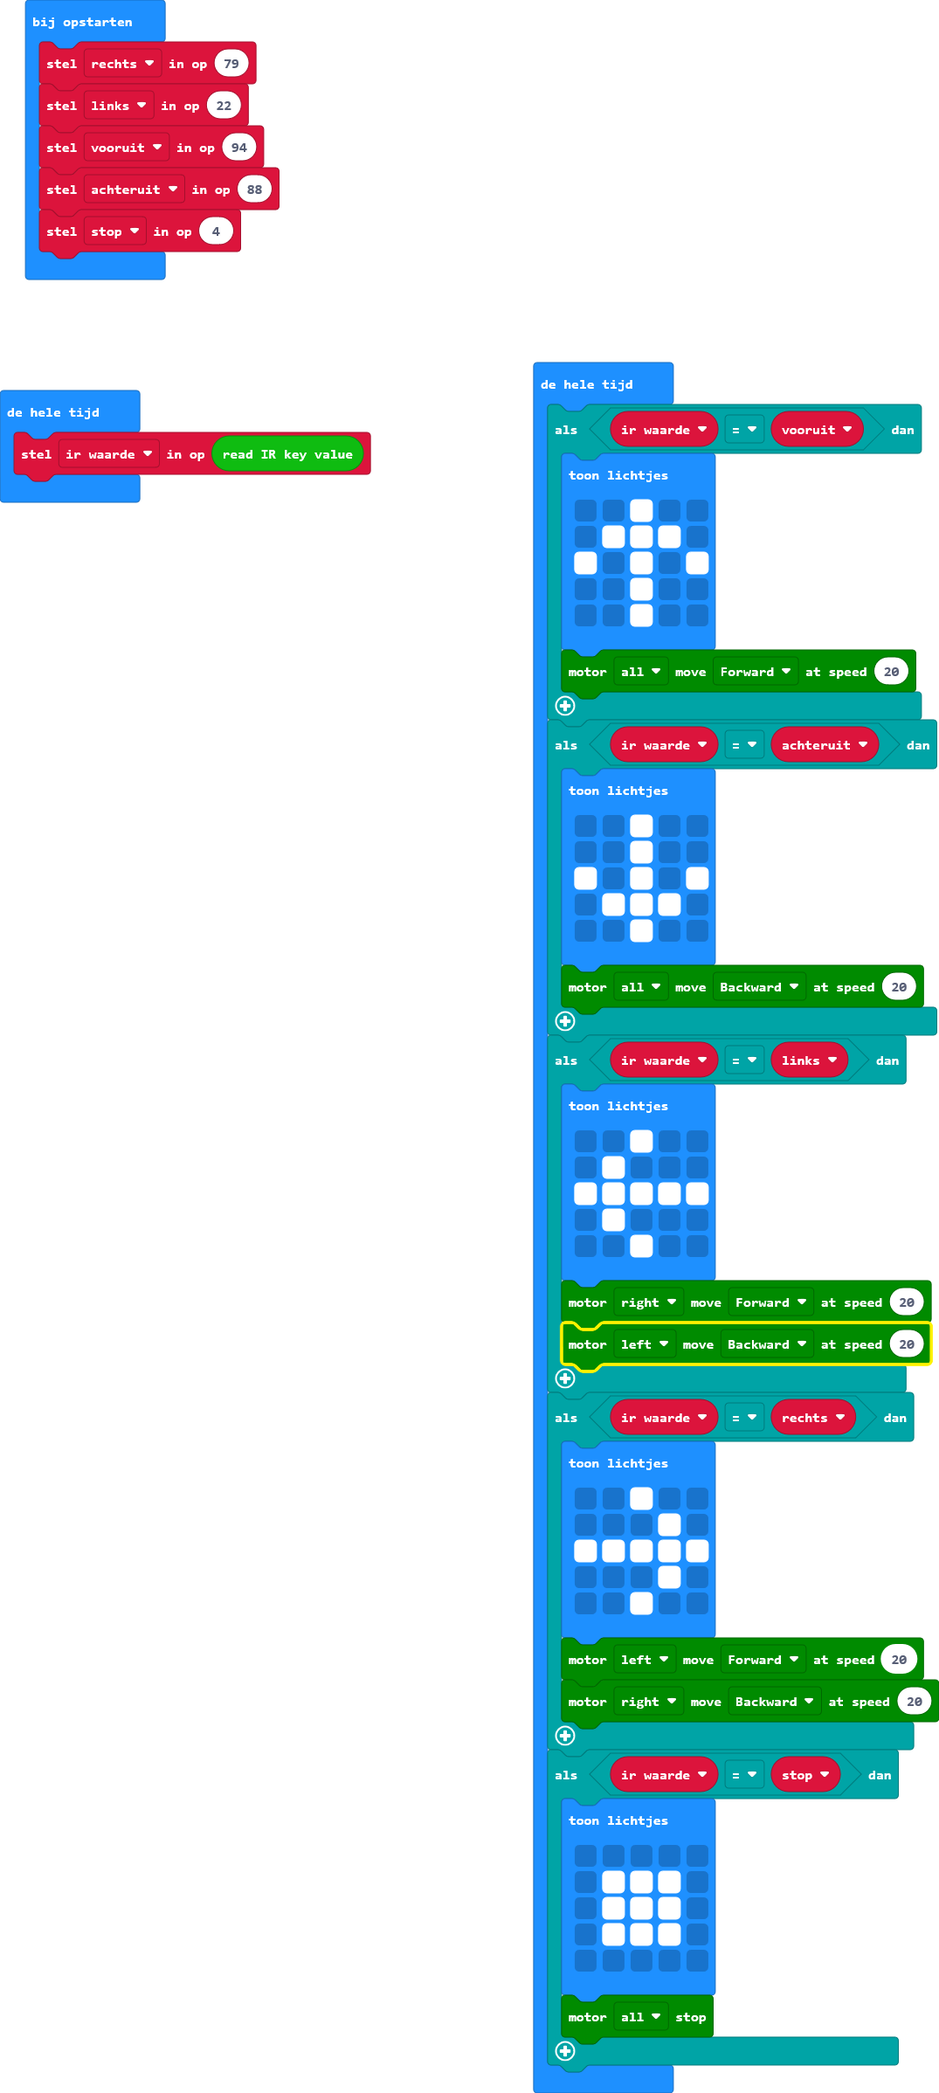
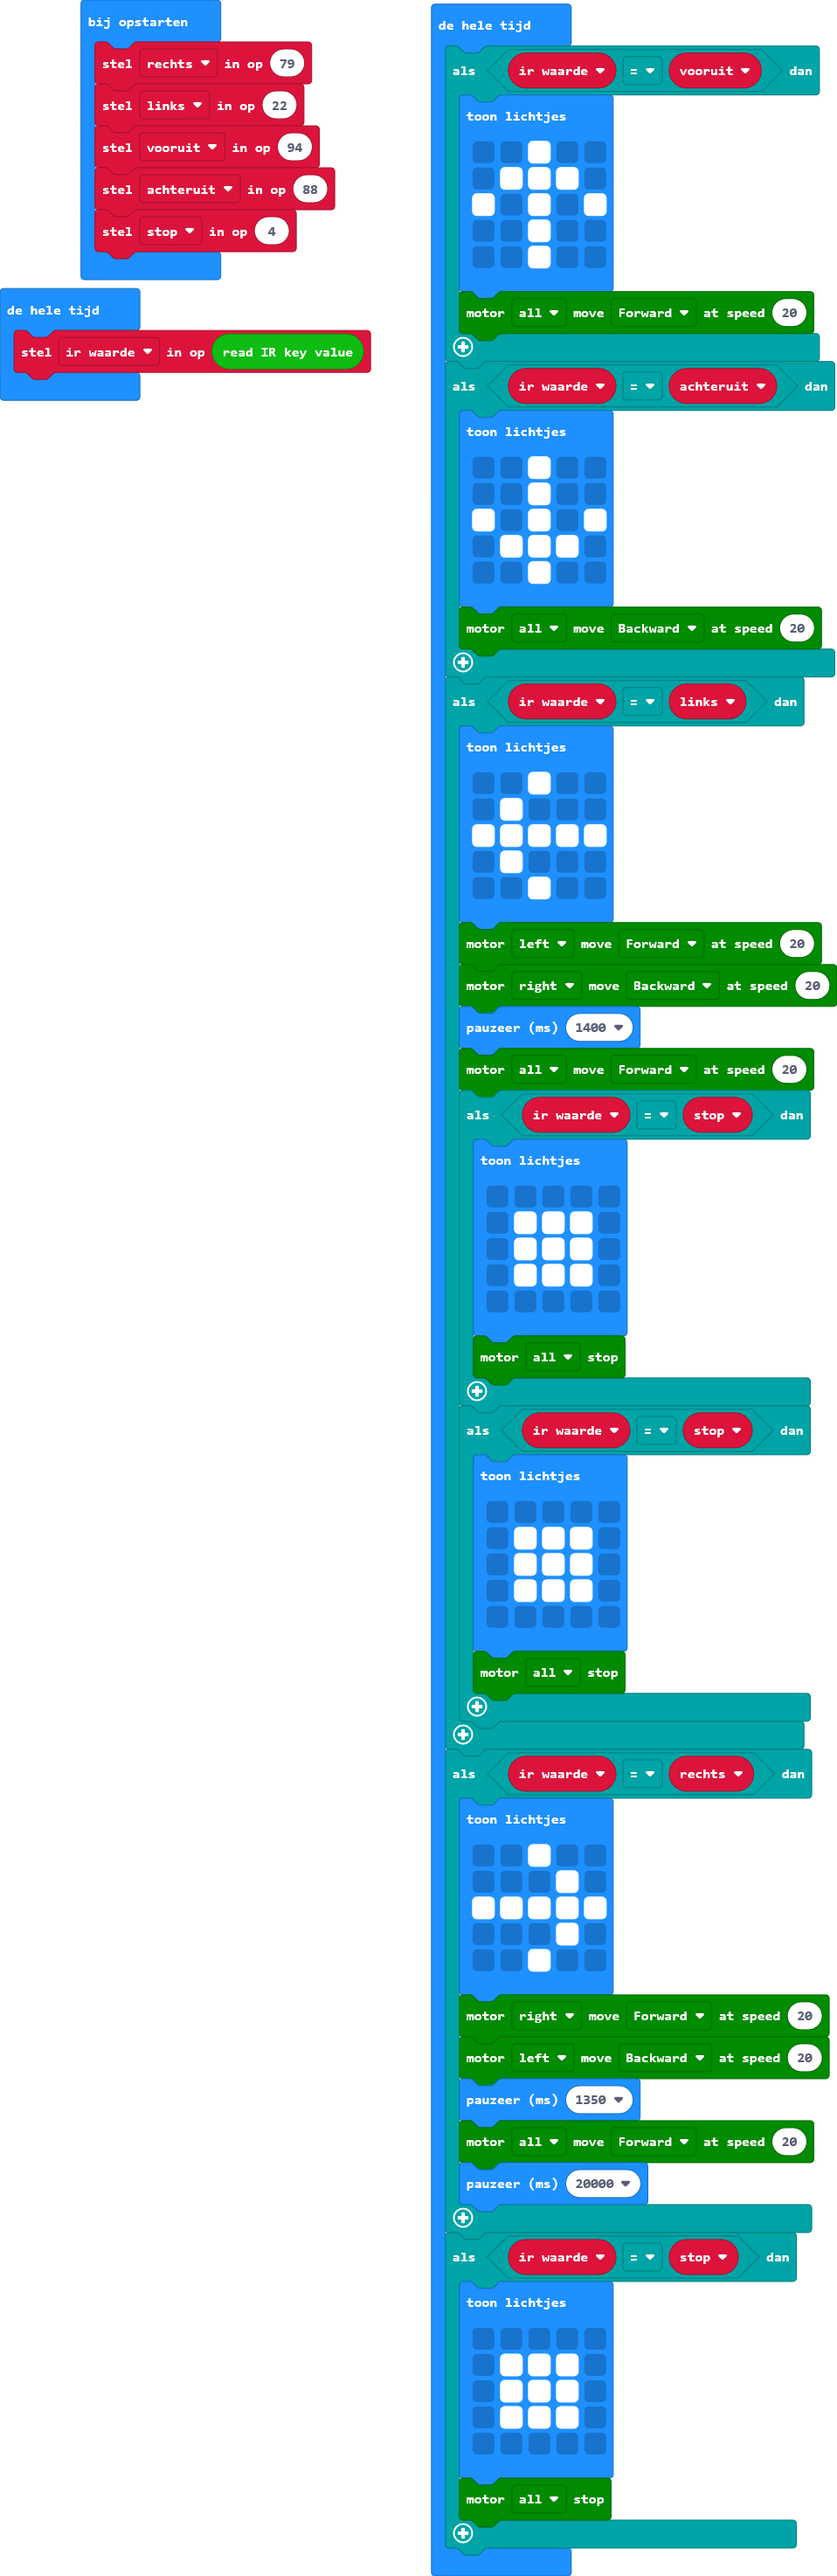
main.blocks, main.ts bijwerken

diff --git a/main.ts b/main.ts
@@ -33,8 +33,30 @@ basic.forever(function () {
             . # . . .
             . . # . .
             `)
-        maqueen.motorRun(maqueen.Motors.M2, maqueen.Dir.CW, 20)
-        maqueen.motorRun(maqueen.Motors.M1, maqueen.Dir.CCW, 20)
+        maqueen.motorRun(maqueen.Motors.M1, maqueen.Dir.CW, 20)
+        maqueen.motorRun(maqueen.Motors.M2, maqueen.Dir.CCW, 20)
+        basic.pause(1400)
+        maqueen.motorRun(maqueen.Motors.All, maqueen.Dir.CW, 20)
+        if (ir_waarde == stop) {
+            basic.showLeds(`
+                . . . . .
+                . # # # .
+                . # # # .
+                . # # # .
+                . . . . .
+                `)
+            maqueen.motorStop(maqueen.Motors.All)
+        }
+        if (ir_waarde == stop) {
+            basic.showLeds(`
+                . . . . .
+                . # # # .
+                . # # # .
+                . # # # .
+                . . . . .
+                `)
+            maqueen.motorStop(maqueen.Motors.All)
+        }
     }
     if (ir_waarde == rechts) {
         basic.showLeds(`
@@ -44,8 +66,11 @@ basic.forever(function () {
             . . . # .
             . . # . .
             `)
-        maqueen.motorRun(maqueen.Motors.M1, maqueen.Dir.CW, 20)
-        maqueen.motorRun(maqueen.Motors.M2, maqueen.Dir.CCW, 20)
+        maqueen.motorRun(maqueen.Motors.M2, maqueen.Dir.CW, 20)
+        maqueen.motorRun(maqueen.Motors.M1, maqueen.Dir.CCW, 20)
+        basic.pause(1350)
+        maqueen.motorRun(maqueen.Motors.All, maqueen.Dir.CW, 20)
+        basic.pause(20000)
     }
     if (ir_waarde == stop) {
         basic.showLeds(`
